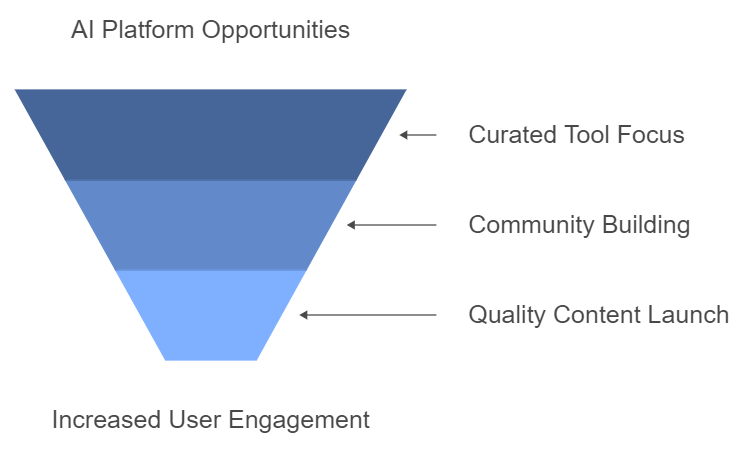
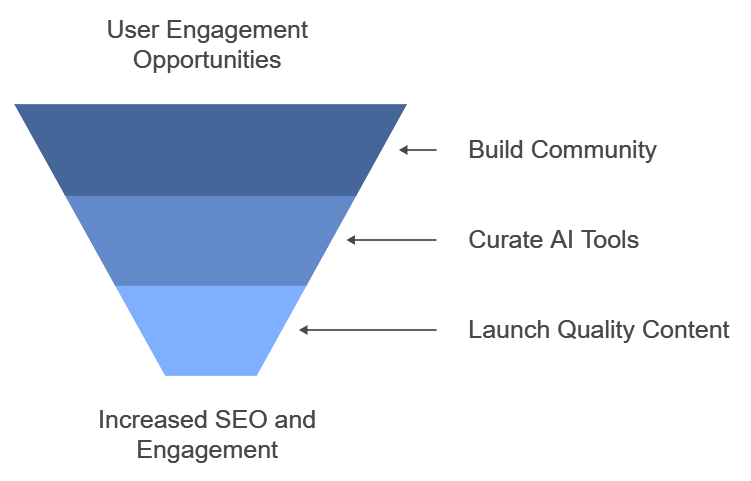
update

diff --git a/pages/Aiinlink.html b/pages/Aiinlink.html
@@ -207,10 +207,11 @@
                                     <div>
                                         <h3 class="text-primary mb-4">So we still have opportunities</h3>
                                         <ul class="list-disc pl-6">
+                                            <li>Build a community where users can learn simple tutorials and share AI
+                                                tips together
+                                            </li>
                                             <li>Focus on curated AI tool recommendations rather than mixed collections
                                             </li>
-                                            <li>Build a community where users can learn simple tutorials and share AI
-                                                tips together</li>
                                             <li>Fast launch of quality content targeting easy-to-rank keywords can boost
                                                 SEO</li>
 
